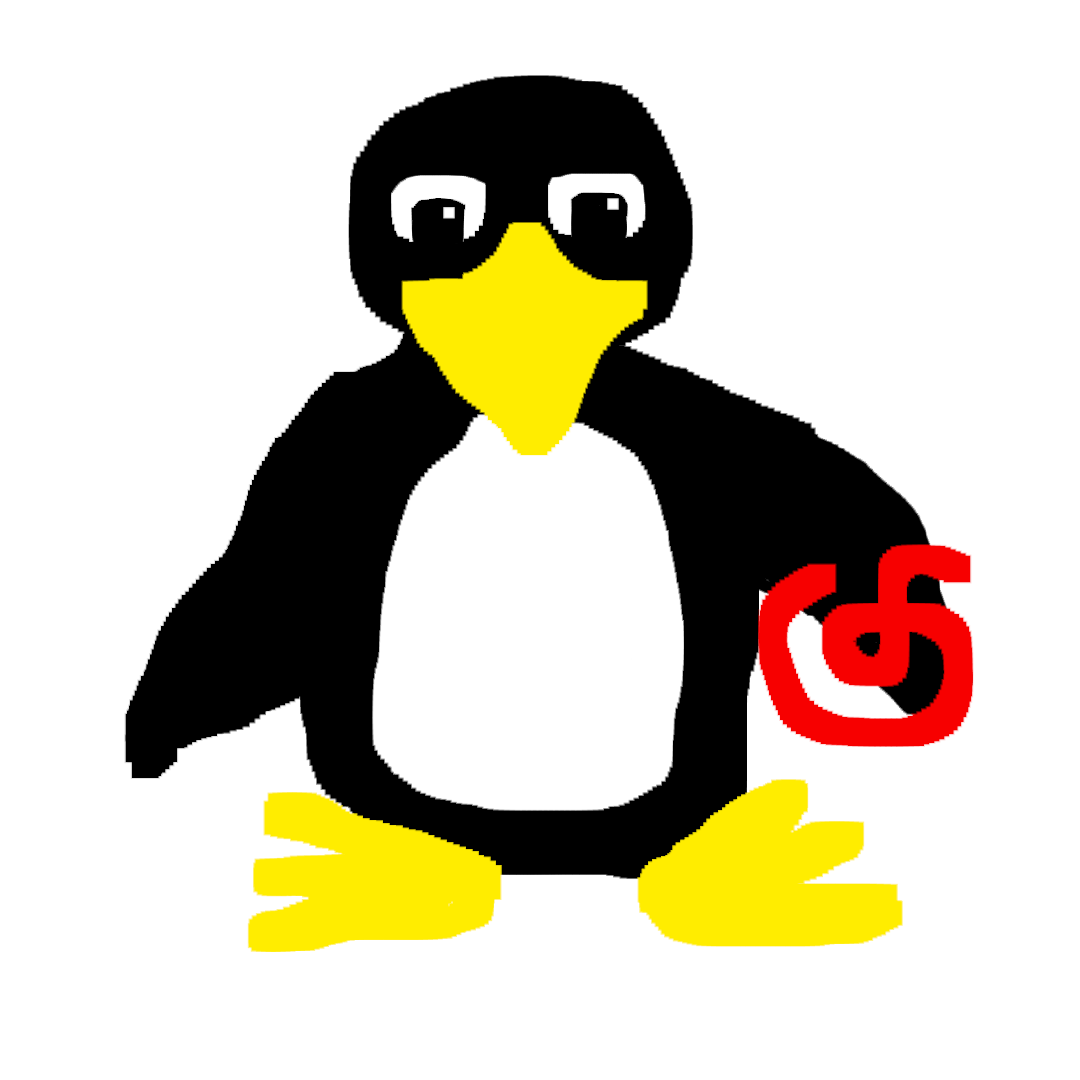
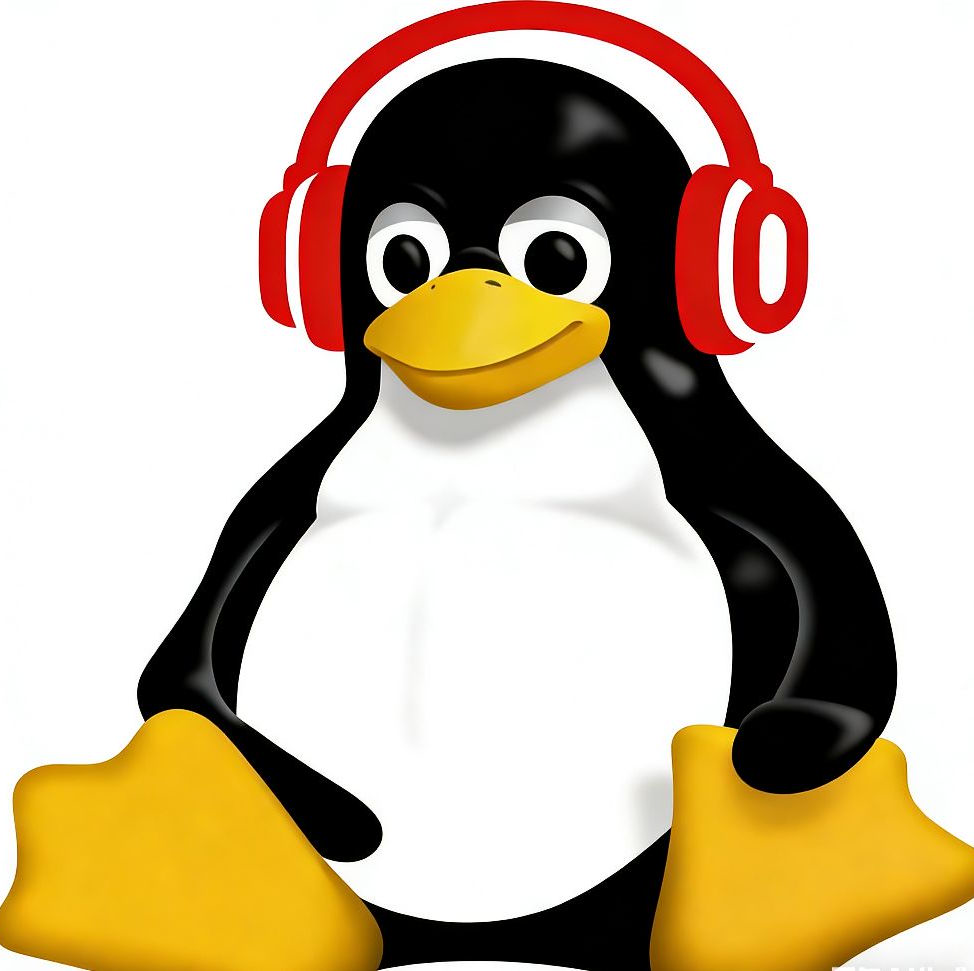
[update] 更新软件图标

diff --git a/src/renderer/src/components/SettingsModal.vue b/src/renderer/src/components/SettingsModal.vue
@@ -59,9 +59,8 @@ const settings = reactive({
 })
 
 const appInfo = {
-  name: 'ncm-desktop-for-linux',
-  version: 'alpha',
-  author: 'Paul Perkenstein'
+  name: 'NCM DISKTOP FOR LINUX',
+  version: '1.0.0'
 }
 
 const checkingUpdate = ref(false)
